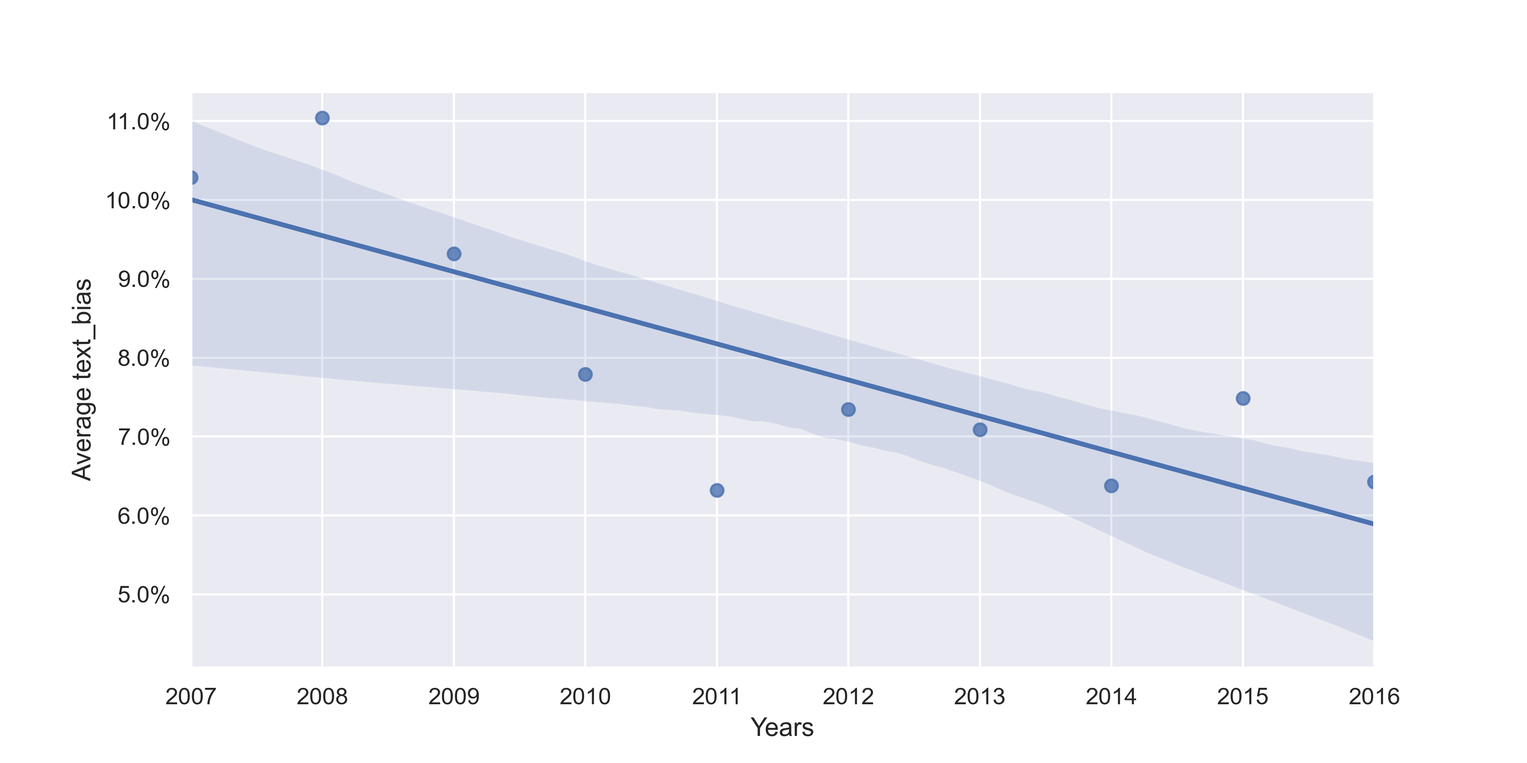
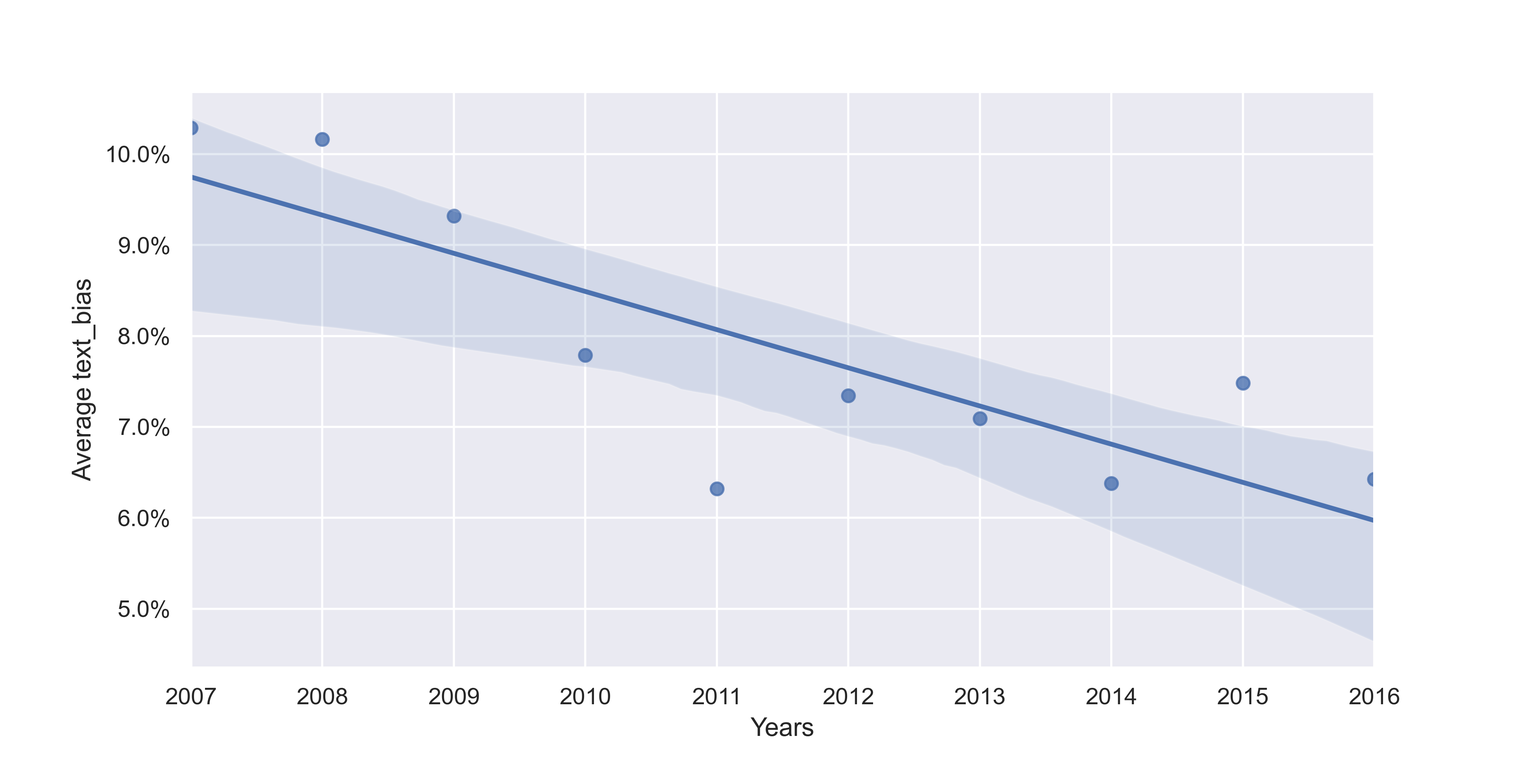
final-tex-update

diff --git a/latex/my_modules/inference.tex b/latex/my_modules/inference.tex
@@ -4,7 +4,7 @@ Finally, the classifier built in the previous section is used to classify media 
 
 
 \section{Data}
-For this purpose, the \textbf{SumeCzech}\footnote{\url{https://ufal.mff.cuni.cz/sumeczech}} dataset has been used \cite{straka2018sumeczech}. It is originally a dataset meant for training summarization models; however, it consists of complete news articles in Json format and therefore is suitable.
+For this purpose, the \textbf{SumeCzech}\footnote{\url{https://ufal.mff.cuni.cz/sumeczech}} dataset has been used \cite{straka2018sumeczech}. It is originally a dataset meant for training summarization models; however, it consists of complete news articles in JSON format and therefore is suitable.
 
 The dataset includes five Czech news domains: novinky.cz, idnes.cz, ceskenoviny.cz, denik.cz, lidovky.cz. 
 
@@ -41,16 +41,16 @@ For each article in the dataset, the following procedure was executed:
     \item Text and abstract are splitted into sentences using \verb|sent_tokenize| nltk function\footnote{\url{https://www.nltk.org/}}.
     \item Each sentence from the text, abstract and a headline is classified with binary label 0,1 using the media bias classifier (\ref{classifier}).
     \item Each sentence from the text is assigned with 'reported\_speech' indicator if matched the regular expression for quoting extraction. 
-    \item The ratio of biased/unbiased sentences is calculated for text and abstract.
-    \item The ratio of reported/direct speech among the sentences is calculated for the text.
+    \item The precentage of biased sentences is calculated for text and abstract.
+    \item The percentage of reported speech among the sentences is calculated for the text.
 \end{enumerate}
 
 This procedure results in the introduction of four new fields:
 \begin{itemize}
-    \item \verb|text_bias :| ratio of biased and unbiased sentences in the text
-    \item \verb|abstract_bias :| ratio of biased and unbiased sentences in the abstract
+    \item \verb|text_bias :| percentage of biased sentences in the text
+    \item \verb|abstract_bias :| percentage of biased sentences in the abstract
     \item \verb|headline_bias :| bias label of the headline
-    \item \verb|quoting_ratio :| ratio of reported and direct speech in the text     
+    \item \verb|quoting_ratio :| percentage of reported speech in the text     
 \end{itemize}
 
 
@@ -74,14 +74,14 @@ and the bias of the article.
 \begin{figure}
 
   \includegraphics[scale=0.5]{my_modules/multimedia/inference/corr.png}
-  \caption{Ten least and ten most biased sections.}
+  \caption{Correlation of dataset fields.}
   \label{fig:corr}
 
 \end{figure}
 
 
 \subsection{Bias distribution}
-Histogram of the \verb|text_bias| values can be seen in figure \ref{fig:dists}. In the first plot, we see that more than 20\% of the classified articles had no biased sentences at all. To have a more detailed look at the distribution, I omitted the unbiased articles in the second histogram. Apparently, most of the biased articles have around 10\% of biased sentences.
+Histogram of the \verb|text_bias| values can be seen in figure \ref{fig:dists}. In the first plot, we see that more than 20\% of the classified articles had no biased sentences at all. To have a more detailed look at the distribution, I omitted the unbiased articles in the second histogram. Apparently, most of the biased articles have between 5-10\% of biased sentences.
 
 
 \begin{figure}
@@ -127,7 +127,7 @@ Furthermore, the difference between the bias distribution of the least biased an
 \subsection{Bias along sections}\label{commentary_bias}
 In this experiment, data were grouped by sections (topics of the article) and their \verb|text_bias| was averaged. I made an arbitrary choice to exclude sections that had less than 50 data points within the dataset, because such sections were way too specific.
 
-The ten least biased and most biased sections can be seen in figure \ref{fig:sections}. The values are in percents.
+The ten least biased and most biased sections\footnote{\textit{rungo} is a lifestyle section, \textit{xman} is a male oriented section and \textit{revue} is sort of a yellow press.} can be seen in figure \ref{fig:sections}. The values are in percents.
 
 
 Sections that exhibit low average \verb|text_bias|, for example \textit{career}, \textit{economics}, \textit{business} are all of a rather factual, emotionless nature.
@@ -135,12 +135,23 @@ On the other hand, sections with high average bias, such as \textit{art}, \texti
 
 Interestingly, the \textit{commentary} section, exhibits by far the highest average \verb|text_bias| (51.97\%). This was an expected result, as the essence of the \textit{commentary} format is to present an opinion, often subjective.
 
-\begin{figure}
+%\begin{figure}
+%
+%  \includegraphics[scale=0.2]{my_modules/multimedia/inference/sections.jpg}
+%  \caption{Ten least and ten most biased sections.}
+%  \label{fig:sections}
+%\end{figure}
 
-  \includegraphics[scale=0.2]{my_modules/multimedia/inference/sections.jpg}
-  \caption{Ten least and ten most biased sections.}
-  \label{fig:sections}
+\begin{figure}%
+    \centering
+    \subfloat[\centering in Czech]{{\includegraphics[height=5cm]{my_modules/multimedia/inference/sections_cs.png} }}%
+    \qquad
+    \subfloat[\centering in English]{{\includegraphics[height=5cm]{my_modules/multimedia/inference/sections_en.png} }}%
+    \caption{Ten least and ten most biased sections}%
+    \label{fig:sections}%
 \end{figure}
+
+
 
 %%%%%%%%%%%%%%%%%%%%%%%%%%%%%%%% DENIK %%%%%%%%%%%%%%%%%%%%%%%%%%%%%%%%%%%%%%%%%%%%%%
 
@@ -151,10 +162,9 @@ Finally, a progression of the media bias over time is examined. Because a distri
 
 To make the results as clear as possible, I only used data from one section. denik.cz data include articles from the years 2007 to 2016. For each year, 350 articles were randomly sampled and the \verb|text_bias| was averaged. A graph of the progression can be seen in figure \ref{fig:denik_years}. I used a linear regression model to fit a line through the data points to highlight the trend.
 
-Additionally, the same statistics, but with respect to months, is shown in figure \ref{fig:months_clean}.
+Additionally, the same statistics, but with respect to months, is shown in figure \ref{fig:months_clean}. A blue stripe represents a confidence interval.
 
 The experiment has shown a decreasing trend in media bias over a period of ten years. The inspection of this result and its possible causes is beyond the scope of this thesis and beyond the scope of the subject of media bias classification. 
-\newpage
 
 
 \begin{figure}[h]
@@ -166,9 +176,9 @@ The experiment has shown a decreasing trend in media bias over a period of ten y
 \end{figure}
 
 
-\begin{figure}
+\begin{figure}[h]
 
-  \includegraphics[scale=0.5]{my_modules/multimedia/inference/months_clean.jpg}
+  \includegraphics[scale=0.5]{my_modules/multimedia/inference/denik_months2_clean.png}
   \caption{Progression of text bias of denik.cz over ten years. The bias is averaged over months.}
   \label{fig:months_clean}
 \end{figure}
@@ -184,7 +194,7 @@ For example, not all commentary articles are marked as commentary in the data. A
 
 On top of it, the classifier has around 80\% accuracy (\ref{classifier}), therefore these results should be taken with a grain of salt.
 
-
+\newpage
 
 %%%%%%%%%%%%%%%%%%%%%%%%%%%%%%%% APP %%%%%%%%%%%%%%%%%%%%%%%%%%%%%%%%%%%%%%%%%%%%%%%%%%%%%%%%%%%%%%%
 
@@ -193,14 +203,14 @@ Additionally, I provide a simple web demo application for the reader to experime
 
 The user can insert arbitrary text in Czech language (text in other languages will result in meaningless outcomes). The text is then split into sentences and classified individually.
 
-The application shows the results in two output windows; the first one \textit{classification} displays inserted text with highlighted labels. The second one, \textit{ratio}, displays the ratio of biased/unbiased sentences in the text.
+The application shows the results in two output windows; the first one \textit{classification} displays inserted text with highlighted labels. The second one, \textit{bias ratio}, displays the precentage of biased sentences in the text.
 
 An example can be seen in figure \ref{fig:demodemo}. 
 Classification of a news article can be seen in Appendix \ref{classified_article}.
 
 \begin{figure}
 \makebox[\textwidth][c]{
-  \includegraphics[scale=0.3]{my_modules/multimedia/bias.png}
+  \includegraphics[scale=0.3]{my_modules/multimedia/bias_classif_demo.png}
   \caption{Example of the bias classifier demo usage.}
   \label{fig:demodemo}
   }

diff --git a/latex/my_modules/experiments.tex b/latex/my_modules/experiments.tex
@@ -17,7 +17,7 @@ The optimal pre-training strategy and hyperparameters are then used to build the
 \end{figure}
  
 \section{Models}
-Architecture-wise, a classifier consisting of a dense\footnote{Sometimes is referred to as fully connected layer.} layer is attached to the pre-trained language model to perform the binary classification task. The tested language models were pre-trained either solely on Czech data (monolingual) or on multiple languages jointly (multilingual). The scheme of the particular architecture used can be seen in \ref{fig:classifier}.
+Architecture-wise, a classifier consisting of a dense\footnote{Sometimes is referred to as fully connected layer.} layer is attached to the pre-trained language model to perform the binary classification task. The tested language models were pre-trained either solely on Czech data (monolingual) or on multiple languages jointly (multilingual). The scheme of the particular architecture used can be seen in figure \ref{fig:classifier}.
 
 As opposed to English language, there is a relatively low number of Czech pre-trained language models available. A list and a brief summary of all the models tested can be found in the following:
 
@@ -66,7 +66,7 @@ All training has been done on the RCI cluster node with 4 x NVIDIA Tesla V100 wi
  
  Because of the novelty of the CWNC, I also perform a baseline evaluation over this dataset, but later it is only used as an auxiliary dataset.
  
- The hyperparameters used are the same as those used by the authors of BABE \cite{Spinde2021MBIC}. However, the authors used early stopping together with \gls{cv} and used the validation split inside \gls{cv} to early stop. This allows the model to "see" the test data during the training. This condition may lead to too optimistic results.
+ The hyperparameters used are the same as those used by the authors of BABE \cite{Spinde2021MBIC}. However, the authors used early stopping together with \gls{cv} and used the validation split inside \gls{cv} to early stop. This may lead to data leakage. Which can subsequently lead to too optimistic results.
  
  A solution to this problem would require another split for validation, but at this point, the size of the training data is already shrunk significantly. Therefore, I did not use early stopping together with \gls{cv} at all. Instead, I fixed the number of epochs to 3 as suggested by the authors of BERT \cite{devlin2019bert} . 
  All other hyperaparemeters remained unchanged; AdamW optimizer is used with an initial learning rate of 5e-5 and a batch size of 64.
@@ -142,11 +142,11 @@ In conclusion, models that generalized to BABE best were pre-trained on Wikipedi
 \subsection{Pre-training + Fine-tuning}
 Secondly, pre-trained models are used as a sort of weight initialization for subsequent \textbf{fine-tuning} on the BABE. The results can be seen in table \ref{table:4}. This process is referred to as \textbf{Pre-trained + Fine-tuned}.
 
-Fine-tuning a model pre-trained on \textbf{ALL} datasets combined resulted in the best performance; however, virtually the same performance was achieved by the model trained on the \textbf{SUBJe} combination. The difference is statistically insignificant. Importantly, the SUBJ split represents almost half of all data (see \ref{fig:cz_data}). Therefore, I assume that the performance of ALL model is high because of the presence of SUBJe in the training data.
+Fine-tuning a model pre-trained on \textbf{ALL} datasets combined resulted in the best performance; however, virtually the same performance was achieved by the model trained on the \textbf{SUBJe} combination. Importantly, the SUBJ split represents almost half of all data (see \ref{fig:cz_data}). Therefore, I assume that the performance of ALL model is high because of the presence of SUBJe in the training data.
 
 Using the rest of the pre-trained models for fine-tuning actually hurt the performance. Yet, the difference is very small. The lowest score is achieved by fine-tuning the MB model. I suspect this is mainly due to the small size (2500 sentences) of the balanced MB set that may have led to overfitting.
 
-In conclusion, using models pre-trained on the subjective bias datasets improved the performance of fine-tuning on BABE.
+In conclusion, using models pre-trained on the subjective datasets improved the performance of fine-tuning on BABE, but the increase was very small.
 
 
 
@@ -165,7 +165,7 @@ For the final model that I share\footnote{\url{https://huggingface.co/horychtom/
 \section{Discussion}
 The results suggest that subjectivity bias as opposed to media bias appears to be a bit more explicit and straightforward, since pre-training on the subjectivity task helped with \gls{mb} detection, but proved insufficient without further fine-tuning (only 55\% on BABE). This supports the assumption that \gls{mb} is composed of many more superficial linguistic features (\ref{features}).
 
-Also, despite the relatively high performance, the final score on the test set is not representative due to its size. The test set consists of $\sim$ 500 sentences and therefore, may not adequately represent all bias information. For a better evaluation, I propose using a nested \gls{cv}.
+Also, despite the relatively high performance, the final score on the test set is not representative due to its size. The test set consists of $\sim$ 500 sentences and therefore, may not adequately represent all bias information. For a better evaluation, I propose using a nested \gls{cv} \cite{stone1974cross}.
 
 The authors of the original paper that introduces BABE \cite{spinde2021neural} report an F1 score of $\sim$ 0.8 for fine-tuned transformer model. That is approximately 2\% higher score than I achieved on the Czech version. This may be caused either by the noise introduced into the data during machine translation or by the possibly lower quality of the Czech pre-trained models.
 

diff --git a/latex/my_modules/czech_datasets.tex b/latex/my_modules/czech_datasets.tex
@@ -1,7 +1,7 @@
 \chapter{Czech datasets}
-Czech language is a so-called \textbf{low resource language}, which, in the machine learning community, means that, for a particular language, a limited number of datasets of sufficient quality and size is available. Thus, the bias detection task in the Czech environment is complicated. Despite the relatively sufficient number of datasets in English, there is essentially no suitable Czech one.
+ Despite the relatively sufficient number of datasets in English, there is essentially no suitable Czech one.
 
- In essence, three options are feasible to solve this problem. The most promising way is to annotate a new gold-standard dataset. However, media bias is a non-trivial, complex, and subtle linguistic feature; hence,a lot of effort must be put into annotator training and eventually filtering of implicitly biased annotations.
+ In essence, three options are feasible to solve this problem. The most promising way is to annotate a new gold-standard dataset. However, media bias is a non-trivial, complex, and subtle linguistic feature; hence, a lot of effort must be put into annotator training and eventually filtering of implicitly biased annotations.
  
  Another way is to use an automatic approach. For example, Allsides\footnote{\url{https://www.allsides.com/unbiased-balanced-news}} provide annotations on source and article-level with expert annotation quality. However, since I focus on a statement level only, using such data leads to oversimplification and results in a very noisy dataset. Regardless, it can still be used for domain-specific pretraining \cite{Spinde2021f}. Unfortunately, there is no Czech site that would provide \textbf{useful} bias information on neither source nor article level. The server \Gls{nfnz}\footnote{\url{https://www.nfnz.cz/}} provides a scoring for different news sources. Yet, only a fraction of their scoring is related to the actual linguistic aspect of the writing. Most of the scoring is based on meta-information such as transparency, proper citation, advertisement, etc.
  
@@ -26,7 +26,7 @@ For the translation of the datasets, \textbf{DeepL} translator, which is a purel
 
 
 \section{Processing}\label{processing}
-Every dataset has been processed into "sentence,label" format, where $label \in \{0,1\}$ stands for \textbf{unbiased} and \textbf{biased}, respectively. Using this simplified data format makes merging and combining several datasets convenient. All sentences that were originally cased were \textbf{not} lowercased, and during the training of the classifier, the maximum sentence length was set to 128 tokens. No other pre-processing was done.
+Every dataset has been processed into "sentence,label" format, where $label \in \{0,1\}$ stands for \textbf{unbiased} and \textbf{biased}, respectively. Using this simplified data format makes merging and combining several datasets convenient. All casing has been preserved, and during the training of the classifier, the maximum sentence length was set to 128 tokens. No other pre-processing was done.
 
 \section{Translated data}
 All translated datasets are listed below. I hope that this collection will serve as a good starting point for future \gls{mb} research in Czech News.
@@ -42,7 +42,7 @@ I will share all the listed datasets on HuggingFace\footnote{\url{https://huggin
     \item NFNJ-CS
     \item SUBJ-CS
     \item UA-crisis-CS
-    \item WNC-large-CS\footnote{additional \textit{large} is added to distinguish between large translated WNC and the Czech version of WNC}
+    \item WNC-large-CS\footnote{Additional \textit{large} is added to distinguish between large translated WNC and the Czech version of WNC.}
 \end{itemize}
 
 Together, approximately 400k bias-labeled translated sentences were collected. The distribution of the datasets can be seen in figure \ref{fig:cz_data}. The WNC is not included in the plot because it represents 87\% of all data. 
@@ -89,7 +89,7 @@ The final dataset consists of:
 \input{my_modules/tables/cwnc_example_table}
 
 
-In total, 5766 sentences. The neutral corpus, which contains only neutral sentences, is saved for a potential need of oversampling. Two examples of CWNC sentence pairs can be seen in \ref{table:cwnc_example}
+In total, 5766 sentences. The neutral corpus, which contains only neutral sentences, is saved for a potential need of oversampling. Two examples of CWNC sentence pairs can be seen in figure \ref{table:cwnc_example}
 
 
 

diff --git a/latex/my_modules/datasets.tex b/latex/my_modules/datasets.tex
@@ -13,6 +13,7 @@ Wikipedia bias could also be considered as a form of subjective bias, but all th
 
 
 \section{Subjectivity Datasets}
+Datasets that contain annotations of explicitly subjective expressions.
 
 \subsection{SUBJ}
 It is reasonable to include datasets that focus on the detection of subjectivity, as it is one of the \gls{mb} characteristics. The Subjectivity dataset (SUBJ) \cite{Pang+Lee:04a} consists of 10000 sentences gathered from movie review sites. Sentences are labeled as subjective and objective with 1:1 ratio. 
@@ -40,7 +41,7 @@ This approach has produced $9484$ subjective sentences and 6318 objective senten
 
 
 \section{Media Bias datasets}
-
+Datasets that focus on media bias specifically.
 
 \subsection{BASIL}
 BASIL dataset \cite{fan2019plain} comprises 300 articles with 1727 sentence level bias annotations. The authors of the dataset distinguish between \textbf{lexical} and \textbf{informational} bias.
@@ -62,7 +63,7 @@ The authors introduce rich annotations for each sentence. Each of them looks at 
     \item Framing
 \end{enumerate}
 In addition, the \textit{overall bias} annotation is presented. Together, the data include 44547 fine-grained annotations. For simplicity, I only included the overall bias annotation.
-Even though this dataset encompasses comprehensive bias information, it also suffers from a low \Gls{iaa} score. Specifically, Krippendorff’s $\alpha = -0.05$.
+Even though this dataset encompasses comprehensive bias information, it also suffers from a low \Gls{iaa} score. Specifically, Krippendorff’s $\alpha = -0.05$ \cite{krippendorff2011computing}.
 
 
 
@@ -89,9 +90,9 @@ The Fleiss Kappa \Gls{iaa} score averaged at zero, making it practically unusabl
 
 BABE contains 3700 sentences. 1700 sentences are from MBIC, which were extracted from 1000 news articles, and in addition extended by 2000 more sentences, altogether covering 12 topics, annotated with binary bias indications. In addition, the annotations were enriched with a list of biased words. However, the presence of biased words does not always result in an overall biased sentence label. See \ref{table:babe_example2} for examples.
 
-It has been annotated by eight experts resulting in \gls{iaa} Krippendorfs $\alpha = 0.39$, which exceeds other media bias datasets by a significant margin. It also provides detailed information about the annotator background, making it a \textbf{reliable} source of information. The pipeline of the collection of BABE can be seen in \ref{fig:babe-data}.
+It has been annotated by eight experts resulting in \gls{iaa} Krippendorfs $\alpha = 0.39$, which exceeds other media bias datasets by a significant margin. It also provides detailed information about the annotator background, making it a \textbf{reliable} source of information. The pipeline of the collection of BABE can be seen in figure \ref{fig:babe-data}.
 
-This dataset plays a pivotal role in my approach to media bias detection and is selected as a target for tuning and evaluating language models in chapter \ref{experiments}. Examples of BABE data points can be seen in 
+This dataset plays a pivotal role in my approach to media bias detection and is selected as a target for tuning and evaluating language models in chapter \ref{experiments}. Examples of BABE data points can be seen in figure
 \ref{table:babe_example2}
 
 \input{my_modules/tables/babe_example2}
@@ -142,7 +143,7 @@ After filtering out sentences that annotators labeled with the "I don't know" op
 
 \subsection{WikiBias}
 This is, to this date, the latest dataset based on Wikipedia. The authors \cite{zhong-etal-2021-wikibias-detecting} closely follow the approach of WNC \cite{pryzant2020automatically} and extract another parallel wiki corpus of 214k sentences.
-To achieve a higher quality corpus, 4099 sentence pairs were randomly sampled and labeled by trained annotators. As a result, WikiBias-Manual dataset consists of 3400 biased and 4798 neutral sentences annotated with high \gls{iaa} score of Cohen's $\kappa = 0.734$
+To achieve a higher quality corpus, 4099 sentence pairs were randomly sampled and labeled by trained annotators. As a result, WikiBias-Manual dataset consists of 3400 biased and 4798 neutral sentences annotated with high \gls{iaa} score of Cohen's $\kappa = 0.734$ \cite{cohen1960coefficient}.
 
 \input{my_modules/tables/datasets_table}
 

diff --git a/latex/my_modules/theoretical_background.tex b/latex/my_modules/theoretical_background.tex
@@ -1,5 +1,5 @@
 \chapter{Theoretical background}\label{theory}
-In this section, I briefly introduce \gls{sota} methods and models used in the experiment section \ref{experiments}. Many of the problems in NLP are tasks of mapping one sequence to another; therefore, modern architectures were designed to tackle this problem efficiently.
+In this section, I briefly introduce \gls{sota} methods and models used for classification in the experiment section \ref{experiments}. Many of the problems in NLP are tasks of mapping one sequence to another; therefore, modern architectures were designed to tackle this problem efficiently.
 
 
 
@@ -44,7 +44,7 @@ There are several problems with this architecture. Firstly, when a long sequence
 \section{Transformers}\label{att_transformers}
 Transformers \cite{vaswani2017attention} is a family of deep neural architectures that has revolutionized the field of \gls{nlp}. The \textbf{attention} mechanism is a core principle behind the transformer architecture and solves some of the problems mentioned in the previous section.
 
-Current \gls{sota} language models, such as GPT-3, BERT, RoBERTa, all use the transformer architecture. Although their architecture can vary from the original one; for example, BERT only uses the Encoder module. Eventually, I have also narrowed the choice of models to transformers rather than other neural architectures.
+Current \gls{sota} language models, such as GPT-3 \cite{brown2020language}, BERT \cite{devlin2019bert}, RoBERTa  \cite{liu2019roberta}, all use the transformer architecture. Although their architecture can vary from the original one; for example, BERT only uses the Encoder module. Eventually, I have narrowed the choice of models to transformers rather than other neural architectures.
 
 
 
@@ -58,7 +58,7 @@ Attention \cite{bahdanau2014neural,luongeffective} is essentially a mechanism th
 \end{figure}
 
 \subsection{Transformer architecture}
-Scheme of the original architecture can be seen in \ref{fig:transformer}. The bottom of the architecture consists of an embedding layer enriched with \textbf{positional embeddings} that encodes the ordering information in the sequence.
+Scheme of the original architecture can be seen in figure \ref{fig:transformer}. The bottom of the architecture consists of an embedding layer enriched with \textbf{positional embeddings} that encodes the ordering information in the sequence.
 
 Just as previous seq2seq models, the transformer also consists of Encoder and Decoder modules. Precisely, each module is a stack of $n$ identical encoder or decoder layers. Each encoder layer consists of two main layers: the \textbf{self-attention} layer and the \textbf{feed-forward} neural network.
 
@@ -124,9 +124,6 @@ Nowadays, the true power of transformers lies in \textbf{transfer learning} \cit
 Such large models are usually pre-trained on an extensive corpus of data. There are several common \textbf{unsupervised} pre-training tasks that allow these models to learn contextual representations of words without supervision. For instance, \gls{mlm} is a task in which a random sample of tokens in the input sequence is replaced with a [MASK] token, and the model learns to predict the original token. Another unsupervised pre-training task is a \gls{nsp} which is self-explanatory.
 
 
-%Fine-tuning is essentially a process of adapting the pre-trained language model and the task-specific head to the target dataset. In the context of this work, the task-specific head is a binary classifier.
-
-%During the fine-tuning both the parameters of the language model, e.g. BERT, and the parameters of the classifier are updated jointly. The weights of the classification layer are trained from scratch; on the other hand, the pre-trained language model already contains meaningful linguistic features, so in the process, its parameters are fine-tuned for task-specific representations.
 
 
 \section{Fine-tuning for classification}\label{finetuning}

diff --git a/latex/my_modules/sota.tex b/latex/my_modules/sota.tex
@@ -14,7 +14,7 @@ I closely followed the approach of Dinan et al. \cite{dinan2020multi}. They defi
 
 The \textit{bias} here simply means an aspect of the statement that implies the gender of a particular person along the dimensions. To make this definition more clear, for example, the authors further propose that an unbiased sentence would be a sentence in which a machine learning model would not be able to classify a gender because there would basically be no difference between the classes. Yet, in a real-world scenario, sentences \textbf{are} influenced by gender, and therefore such classification is possible.
 
-To measure this kind of bias over all three dimensions, a large-scale dataset \textbf{md\_gender}\footnote{\url{https://huggingface.co/datasets/md_gender_bias}} has been collected. The authors train a transformer model using \Gls{mtl}, to capture all three dimensions. However, only the \textit{ABOUT} dimension and a very small fraction of the \textit{AS} dimension are publicly available, so I focused only on the \textit{ABOUT} dimension.
+To measure this kind of bias over all three dimensions, a large-scale dataset \textbf{md\_gender}\footnote{\url{https://huggingface.co/datasets/md_gender_bias}} has been collected. The authors train a transformer model (\ref{att_transformers}) using \Gls{mtl} (\ref{mtl}) paradigm, to capture all three dimensions. However, only the \textit{ABOUT} dimension and a very small fraction of the \textit{AS} dimension are publicly available, so I focused only on the \textit{ABOUT} dimension.
 
 \newpage
 
@@ -46,6 +46,6 @@ However, additional high-level features such as the position of bias, frequency,
 
 As I outlined in the previous section, \gls{mb} can be divided into two classes, where one depends on the outer context, and the other does not. This is commonly referred to as \textbf{informational} and \textbf{lexical} bias. There have been efforts to classify informational bias with varying context sizes \cite{van2020context}, although a majority of the work focuses on lexical bias, and I follow this standard as well.
 
-Various pre-training and fine-tuning strategies have been studied regarding sentence classification. However, one of the most promising approaches is using an \Gls{mtl} to tackle the problem. Although there are already some results of applying \Gls{mtl} to the detection of \gls{mb} \cite{lee2021unifying,spindeexploiting}, empirical studies suggest that a large number of tasks should be used to allow \Gls{mtl} to shine \cite{aribandi2021ext5}. For more details about \gls{mtl} see \ref{theory} section.
+Various pre-training and fine-tuning strategies have been studied regarding sentence classification. However, one of the most promising approaches is using an \Gls{mtl} to tackle the problem (see \ref{mtl} for more details). Although there are already some results of applying \Gls{mtl} to the detection of \gls{mb} \cite{lee2021unifying,spindeexploiting}, empirical studies suggest that a large number of tasks should be used to allow \Gls{mtl} to shine \cite{aribandi2021ext5}
 
 \let\cleardoublepage\clearpage

diff --git a/latex/main.tex b/latex/main.tex
@@ -152,7 +152,6 @@ In Prague, \monthinlanguage{title} \ctufield{day}, \ctufield{year}
 
 \usepackage{url}
 \usepackage{subfig}
-
 \usepackage{tabularx,array}
 \usepackage{mathtools,amssymb}
 \usepackage{amsmath,amsthm,enumitem}
@@ -205,14 +204,13 @@ In Prague, \monthinlanguage{title} \ctufield{day}, \ctufield{year}
 % MAIN TEXT
 \input{my_modules/introduction}
 
+\input{my_modules/theoretical_background}
 
 \input{my_modules/sota}
 
 \input{my_modules/datasets}
 
 \input{my_modules/czech_datasets}
-
-\input{my_modules/theoretical_background}
 
 \input{my_modules/experiments}
 
